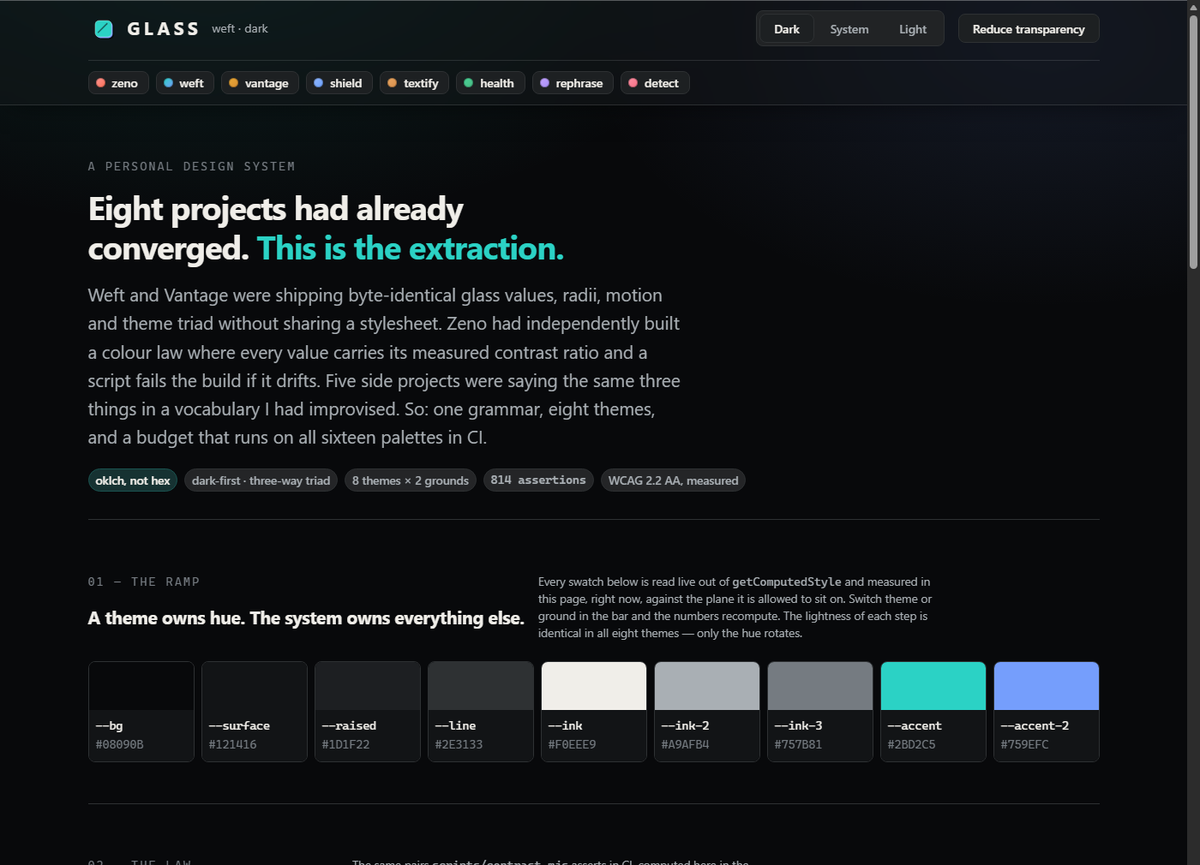
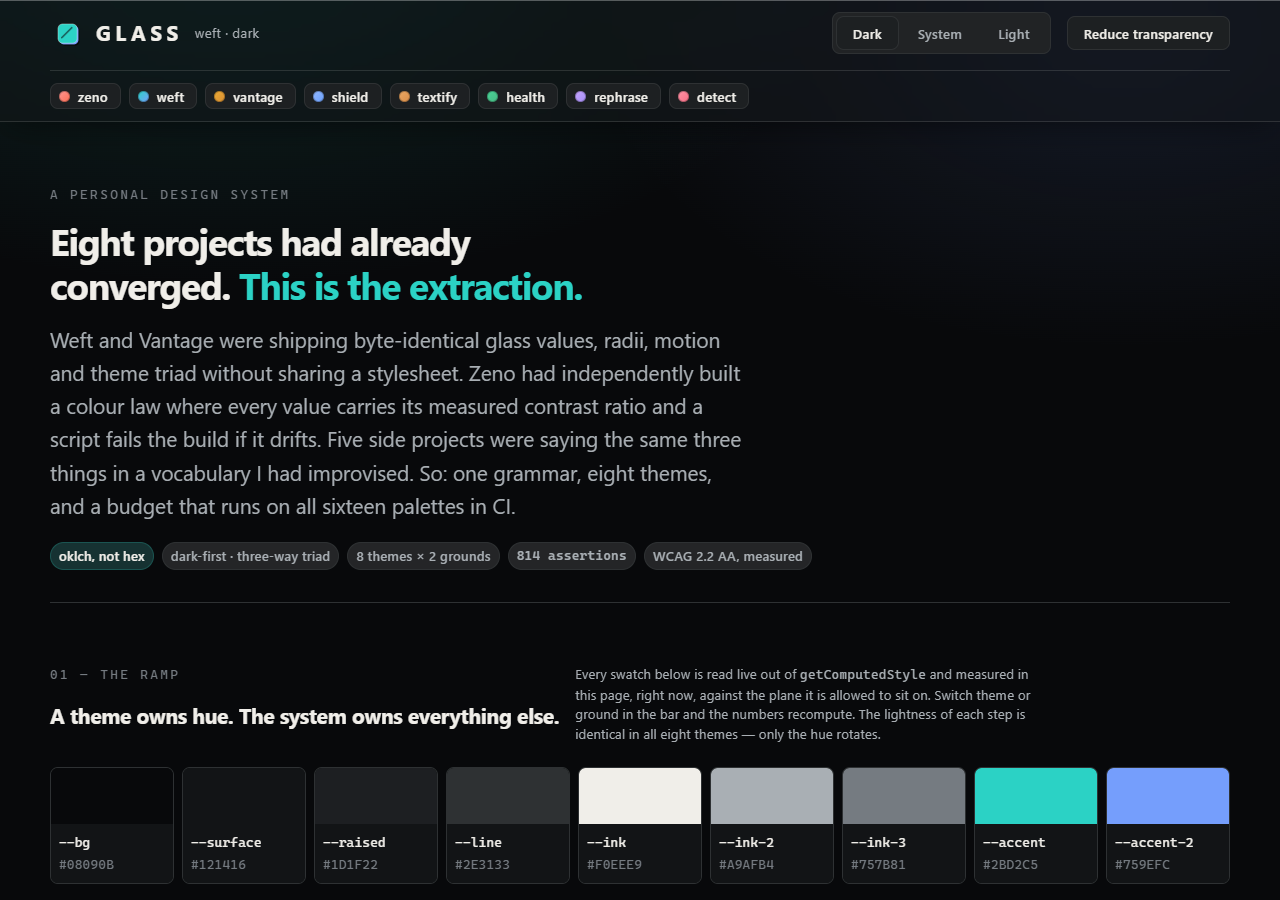
Verify Glass demo interactions and refresh existing media

diff --git a/demo/index.html b/demo/index.html
@@ -149,6 +149,9 @@ footer a { color: var(--ink-2); }
   .gal-row { grid-template-columns: 1fr; }
   .wrap { padding: 0 var(--sp-4); }
 }
+.tooltip-trigger .tooltip { visibility: hidden; }
+.tooltip-trigger:hover .tooltip, .tooltip-trigger:focus-visible .tooltip { visibility: visible; }
+[role="tabpanel"][hidden] { display: none; }
 </style>
 </head>
 
@@ -288,11 +291,11 @@ footer a { color: var(--ink-2); }
           Minimum target size is enforced by the primitive, not left to the caller (SC 2.5.8).
         </p>
         <div class="row">
-          <button class="btn btn-primary">Primary</button>
-          <button class="btn">Quiet</button>
-          <button class="btn btn-ghost">Ghost</button>
-          <button class="btn btn-glass">Glass</button>
-          <button class="btn" disabled>Disabled</button>
+          <button class="btn btn-primary" data-sample-button>Primary</button>
+          <button class="btn" data-sample-button>Quiet</button>
+          <button class="btn btn-ghost" data-sample-button>Ghost</button>
+          <button class="btn btn-glass" data-sample-button>Glass</button>
+          <button class="btn" disabled>Disabled</button><span id="button-sample-status" role="status"></span>
         </div>
       </div>
 
@@ -419,30 +422,33 @@ footer a { color: var(--ink-2); }
 
       <div class="card">
         <p class="kicker" style="margin:0 0 var(--sp-3)">navigation.css</p>
-        <h3 class="card-title">Tabs, breadcrumbs, menu</h3>
-        <nav class="tabs" role="tablist" style="margin-bottom: var(--sp-4)">
-          <button class="tab" role="tab" aria-selected="true">Overview</button>
-          <button class="tab" role="tab" aria-selected="false">Tokens</button>
-          <button class="tab" role="tab" aria-selected="false">Themes</button>
+        <h3 class="card-title">Tabs, breadcrumbs, menu</h3><p id="menu-sample-status" role="status">Menu actions are visual specimens; they do not modify data.</p>
+        <nav class="tabs" role="tablist" aria-label="Component example" style="margin-bottom: var(--sp-4)">
+          <button id="sample-tab-overview" class="tab" role="tab" aria-controls="sample-panel-overview" aria-selected="true" tabindex="0">Overview</button>
+          <button id="sample-tab-tokens" class="tab" role="tab" aria-controls="sample-panel-tokens" aria-selected="false" tabindex="-1">Tokens</button>
+          <button id="sample-tab-themes" class="tab" role="tab" aria-controls="sample-panel-themes" aria-selected="false" tabindex="-1">Themes</button>
         </nav>
+        <p id="sample-panel-overview" role="tabpanel" aria-labelledby="sample-tab-overview">CSS defines the appearance; this demo adds the tab interaction. Use arrow keys, Home or End.</p>
+        <p id="sample-panel-tokens" role="tabpanel" aria-labelledby="sample-tab-tokens" hidden>Tokens name a shared role: surface, ink, spacing, focus and motion.</p>
+        <p id="sample-panel-themes" role="tabpanel" aria-labelledby="sample-tab-themes" hidden>Choose a hue above. The system keeps its spacing and contrast rules.</p>
         <ol class="breadcrumbs" style="margin-bottom: var(--sp-4)">
-          <li><a href="#">glass</a></li>
-          <li><a href="#">demo</a></li>
+          <li><a href="#ramp">glass</a></li>
+          <li><a href="#components">demo</a></li>
           <li aria-current="page">components</li>
         </ol>
         <div class="glass-inner" style="padding: var(--sp-2)">
           <ul class="menu" style="position: static; width: 100%; box-sizing: border-box;">
-            <li><button class="menu-item">Duplicate</button></li>
-            <li><button class="menu-item">Rename</button></li>
+            <li><button class="menu-item" data-menu-sample="Duplicate">Duplicate</button></li>
+            <li><button class="menu-item" data-menu-sample="Rename">Rename</button></li>
             <li><hr class="menu-sep"></li>
-            <li><button class="menu-item menu-item-danger">Delete</button></li>
+            <li><button class="menu-item menu-item-danger" data-menu-sample="Delete">Delete</button></li>
           </ul>
         </div>
       </div>
 
       <div class="card card-raised">
         <p class="kicker" style="margin:0 0 var(--sp-3)">feedback.css</p>
-        <h3 class="card-title">Toast, modal shell, tooltip, skeleton</h3>
+        <h3 class="card-title">Toast, tooltip, skeleton</h3>
         <div class="stack" style="margin-top: var(--sp-4)">
           <div class="toast toast-ok" style="position: static;">
             <span class="toast-icon">&#10003;</span>
@@ -452,9 +458,9 @@ footer a { color: var(--ink-2); }
             </div>
           </div>
           <div class="row" style="align-items: center;">
-            <button class="btn" style="position: relative;">
-              Hover for tooltip
-              <span class="tooltip" style="position: absolute; bottom: calc(100% + 6px); left: 0;">A small opaque label, never glass.</span>
+            <button class="btn tooltip-trigger" style="position: relative;" aria-describedby="sample-tooltip">
+              Hover or focus for tooltip
+              <span id="sample-tooltip" role="tooltip" class="tooltip" style="position: absolute; bottom: calc(100% + 6px); left: 0;">A small opaque label, never glass.</span>
             </button>
           </div>
           <div class="stack" style="gap: var(--sp-2)">
@@ -467,10 +473,10 @@ footer a { color: var(--ink-2); }
 
       <div class="card">
         <p class="kicker" style="margin:0 0 var(--sp-3)">data.css</p>
-        <h3 class="card-title">Table, badge, avatar</h3>
+        <h3 class="card-title">Table, badge, avatar</h3><p>Illustrative table data. The live measured ratios are in the contrast budget above.</p>
         <div class="table-wrap" style="margin-bottom: var(--sp-4)">
           <table class="table table-striped">
-            <thead><tr><th>Theme</th><th data-numeric="true">Ratio</th><th>Status</th></tr></thead>
+            <thead><tr><th>Theme</th><th data-numeric="true">Example ratio</th><th>Status</th></tr></thead>
             <tbody>
               <tr><td>zeno</td><td data-numeric="true">8.42:1</td><td><span class="badge badge-ok">pass</span></td></tr>
               <tr><td>weft</td><td data-numeric="true">14.21:1</td><td><span class="badge badge-ok">pass</span></td></tr>
@@ -745,6 +751,7 @@ function renderGallery() {
 /* ---- the switcher ------------------------------------------------------- */
 function renderThemeButtons() {
   const host = document.getElementById('themes');
+  const focusedTheme = document.activeElement?.dataset.themeBtn;
   host.innerHTML = THEMES.map(([id, hue]) => {
     const p = flat(readPalette(id, html.dataset.theme || null));
     return `<button class="btn swatch-btn" data-theme-btn="${id}" aria-pressed="false" title="${id} — ${hue}">
@@ -753,6 +760,7 @@ function renderThemeButtons() {
   for (const el of host.querySelectorAll('[data-theme-btn]')) {
     el.addEventListener('click', () => setTheme(el.dataset.themeBtn));
   }
+  if (focusedTheme) host.querySelector(`[data-theme-btn="${focusedTheme}"]`)?.focus();
 }
 
 function setTheme(id) { html.dataset.glass = id; refresh(); }
@@ -802,6 +810,32 @@ function refresh() {
   if (q.get('flat') === '1') { html.dataset.flat = '1'; document.getElementById('flat').setAttribute('aria-pressed', 'true'); }
 }
 
+const sampleTabs = [...document.querySelectorAll('[role="tab"]')];
+function selectSampleTab(tab) {
+  for (const item of sampleTabs) {
+    const active = item === tab;
+    item.setAttribute('aria-selected', String(active));
+    item.tabIndex = active ? 0 : -1;
+    document.getElementById(item.getAttribute('aria-controls')).hidden = !active;
+  }
+  tab.focus();
+}
+for (const [index, tab] of sampleTabs.entries()) {
+  tab.addEventListener('click', () => selectSampleTab(tab));
+  tab.addEventListener('keydown', event => {
+    const destinations = { ArrowRight: (index + 1) % sampleTabs.length, ArrowLeft: (index + sampleTabs.length - 1) % sampleTabs.length, Home: 0, End: sampleTabs.length - 1 };
+    if (event.key in destinations) {
+      event.preventDefault();
+      selectSampleTab(sampleTabs[destinations[event.key]]);
+    }
+  });
+}
+for (const button of document.querySelectorAll('[data-menu-sample]')) {
+  button.addEventListener('click', () => { document.getElementById('menu-sample-status').textContent = `${button.dataset.menuSample} style selected. Demo only; no data was changed.`; });
+}
+for (const button of document.querySelectorAll('[data-sample-button]')) {
+  button.addEventListener('click', () => { document.getElementById('button-sample-status').textContent = `${button.textContent} button activated.`; });
+}
 renderGallery();
 refresh();
 matchMedia('(prefers-color-scheme: light)').addEventListener('change', refresh);

diff --git a/README.md b/README.md
@@ -255,6 +255,25 @@ $ node scripts/contrast.mjs
 
 ---
 
+## How the pieces fit
+
+```mermaid
+%%{init: {'theme':'base','themeVariables':{'primaryColor':'#142d35','primaryTextColor':'#e6f4f1','primaryBorderColor':'#2ed3c6','lineColor':'#647c8d'}}}%%
+flowchart LR
+    S[Theme seeds] --> T[Shared token grammar]
+    T --> C[CSS primitives and components]
+    T --> V[Contrast and structure checks]
+    V --> J[Derived token JSON]
+    C --> D[Interactive demo]
+    C --> A[Versioned vendor copy in apps]
+    V --> P[Pages release gate]
+    D --> P
+    classDef proof fill:#143b2b,stroke:#3ecf8e,color:#e6f4f1
+    class V,J,P proof
+```
+
+The CSS is the reusable product; demo JavaScript adds example interactions. Theme and ground controls, keyboard tabs, focusable tooltips and native form inputs are exercised by `node tools/verify-demo.mjs`. The static menu/table examples are explicitly labeled. Automated browser checks complement the contrast law; they do not establish that every consuming application's layout is accessible.
+
 ## 🎨 The token grammar
 
 The Weft/Vantage grammar, adopted whole. Everything below lives in `src/tokens.css`; **none of it is
@@ -541,12 +560,9 @@ of these paths must produce a completely usable surface with the decoration swit
 
 ---
 
-## 🔌 Used in production
+## 🔌 Project integrations
 
-Not aspirational — each row below is a real dependency in that project's `package.json` (or a
-committed, generated vendor copy where the deploy pipeline's build context rules out a live link),
-wired in as an `@import` layered *underneath* the project's own token declarations, so the
-project's colours are unchanged and every claim below is CI- and screenshot-verified.
+Projects consume committed CSS or a local package reference, so a release is reproducible. Each app still owns its layout, interaction code, and verification; importing tokens alone does not certify an entire interface.
 
 | Project | How it consumes glass | Verified |
 |---|---|---|
@@ -561,6 +577,19 @@ that repo) from a machine with `glass` checked out as a sibling, which copies `g
 `src/tokens.css` in verbatim and commits the copy; the import is real, the dependency is just
 expressed as a tracked file instead of a package-manager edge. Re-run that script and commit the
 result whenever `glass`'s `tokens.css` changes.
+
+ShieldAI also serves committed local copies of `tokens.css`, `primitives.css` and `themes/shield.css` with the MIT license; its Fly release 8 was verified at source commit `e3e1f0d`. Textify's current FastAPI source vendors `tokens.css`, `primitives.css`, and `themes/textify.css`; its upload, question, deletion and safe text rendering flows passed local browser verification. See that repository for its separate deployment status. Shared CSS files were not changed by this demo update.
+
+### Verify the demo
+
+```console
+npm run check              # 814 numerical/structural assertions, 16 palettes
+npm install
+npx playwright install chromium
+npm run test:browser       # 10 groups of theme, keyboard, form and mobile checks
+```
+
+The menu actions are styling specimens with explicit demo feedback. Tabs, theme controls, fields and tooltips are interactive. Both CI and Pages publication run the contrast and browser checks. The browser script also captures screenshots; these are evidence, not automatic pixel-diff baselines.
 
 ## 📸 Screenshots
 
@@ -615,16 +644,8 @@ Read this before you rely on it, rather than discover it later.
   `<Button>`, no React, no Web Component, and no plan for one — the whole point is that projects on
   different stacks (plain CSS, Vite, Tailwind + MUI, a browser extension) can share the *tokens*
   and the *markup contract*, not a JS runtime.
-- **Three of the eight source projects have been migrated onto it** — see
-  [Used in production](#-used-in-production) below, with what each verified. **The other five
-  (ShieldAI, Textify, HealthFlow, Smart-Rephraser-Lite, AI-Detector-Web-Extension) have not** —
-  their theme files exist here (the extraction covers all eight hues), but the retrofit of each
-  project's own stylesheet is separate, unstarted work. Vantage's own `tokens.css` still ships the
-  light `--warn` that measures 3.59:1 (below the 4.5:1 this package's ladder requires) —
-  the import in [Used in production](#-used-in-production) sits *underneath* that value, not over
-  it, so it does not fix it.
-- **No visual regression tests.** The contrast budget is machine-checked; whether a card *looks*
-  right is not.
+- **Integration is per project.** Theme files exist for all eight source palettes, but that does not mean every app has migrated every component. Zeno, Weft and Vantage consume shared tokens; Textify's current source also vendors its theme and primitives. Check each consumer's current deployment and test evidence before describing it as verified. A later app-level CSS declaration can still override a safer shared token.
+- **No pixel-baseline regression suite.** The contrast budget and demo behavior are machine-checked; screenshots still need human review for visual quality.
 - **`--gl-worst` is a model, not a measurement of your page.** It is the worst realistic composite
   behind a pane. If you put glass over a photograph, the budget cannot help you — measure that case
   directly.
